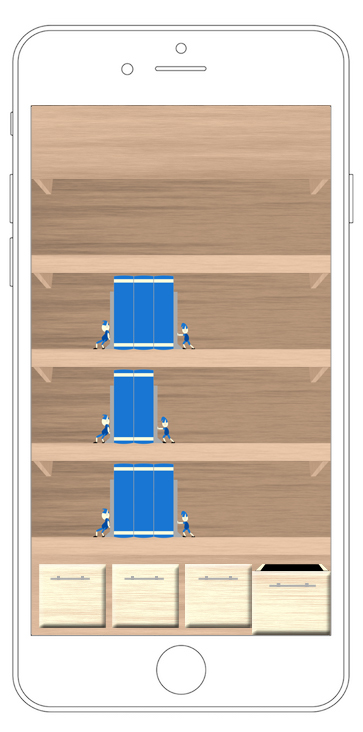
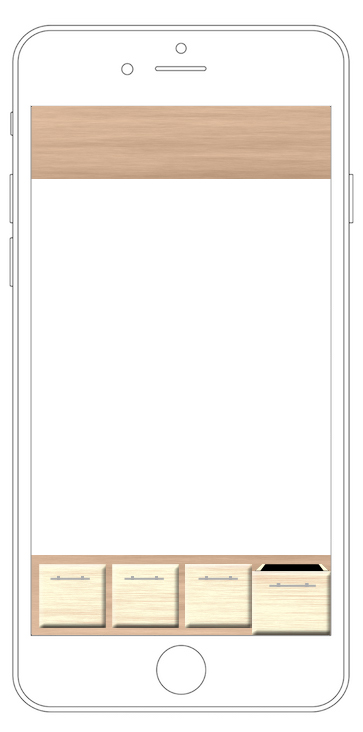
updates

diff --git a/profile/profile-background.css b/profile/profile-background.css
@@ -8,7 +8,8 @@ body {
     height: 94px;
     padding: 0px;
     margin: 0px;
-	background-image: url("../images/3books.jpg"); /* change this for different number of books */
+	text-decoration: none;
+	background-image: url("../images/noBooks.jpg"); /* change this for different number of books */
 }
 
 #borrowingShelf{ /* 4 containers that include top supports and shelf, title, contains 2  */
@@ -16,15 +17,17 @@ body {
     height: 94px;
     padding: 0px;
     margin: 0px;
+	text-decoration: none;
 	background-image: url("../images/3books.jpg"); /* change this for different number of books */
 }
 
-#profileShelf{ /* 4 containers that include top supports and shelf, title, contains 2  */
+#lendingOutShelf{ /* 4 containers that include top supports and shelf, title, contains 2  */
     width: 300px;
     height: 94px;
     padding: 0px;
     margin: 0px;
-	background-image: url("../images/3books.jpg"); /* change this for different number of books */
+	text-decoration: none;
+	background-image: url("../images/2books.jpg"); /* change this for different number of books */
 }
 
 #readyToLendShelf{ /* 4 containers that include top supports and shelf, title, contains 2  */
@@ -37,11 +40,22 @@ body {
 
 .shelfContent{ /* for zoom, link, highlighting */
 	width: 300px;
-	height: 80px;
-	float: right;
-	vertical-align: center;
+	height: 75px;
+	margin: 0px;
+	padding: 0px;
+	text-align: right;
+	font-size: 50px;
+	line-height: 1.7;
+	text-decoration: none;
+	color: #004ba0;
+	padding-right: 5px;
 } 
 
 .shelfLabel{ /* for shelf labels */
-	
+	width: 300px;
+	height: 19px;
+	margin: 0px;
+	padding: 0px;
+	font-size: 12pt;
+	text-align: center;
 } 

diff --git a/profile/profile.html b/profile/profile.html
@@ -1,13 +1,13 @@
 <html>
 <header>
    <title>profileHome</title>
+   <link href="https://fonts.googleapis.com/icon?family=Material+Icons" rel="stylesheet">
    <link rel="stylesheet" type="text/css" href="../index.css"/>
    <link rel="stylesheet" type="text/css" href="profile-background.css"/>
       <meta charset="utf-8">
    <meta name="viewport" content="width=device-width, initial-scale=1, shrink-to-fit=no">
    <link rel="stylesheet" href="https://fonts.googleapis.com/css?family=Josefin+Sans|Josefin+Slab">
    <link rel="stylesheet" type="text/css" href="../bootstrap/css/bootstrap.css">
-   <link href="https://fonts.googleapis.com/icon?family=Material+Icons" rel="stylesheet">
 </header>
    <body>
       <div id="screen"> 
@@ -22,7 +22,10 @@
                </div>
             </div>
          </div>
-         
+         <a href="editProfile.html" id="profileShelf" onmouseover="highlightShelf(this)" onmouseout="unhighlightShelf(this)">
+			<i class="material-icons shelfContent">zoom_in</i>
+			<h3 class="shelfLabel headerText">Profile</h3>
+		 </a>
          <div class="tab-bar">
             <div class="tab-button">
                <a href="../findTextbook/findTextbooks.html"><span class="link"></span></a>

diff --git a/profile/profile.js b/profile/profile.js
@@ -2,3 +2,11 @@
 function sendBorrow(borrow) {
     localStorage.setItem("borrow",borrow)
 }
+
+function highlightShelf(shelf) {
+	shelf.style.opacity = 0.5;
+}
+
+function unhighlightShelf(shelf) {
+	shelf.style.opacity = 1.0;
+}
